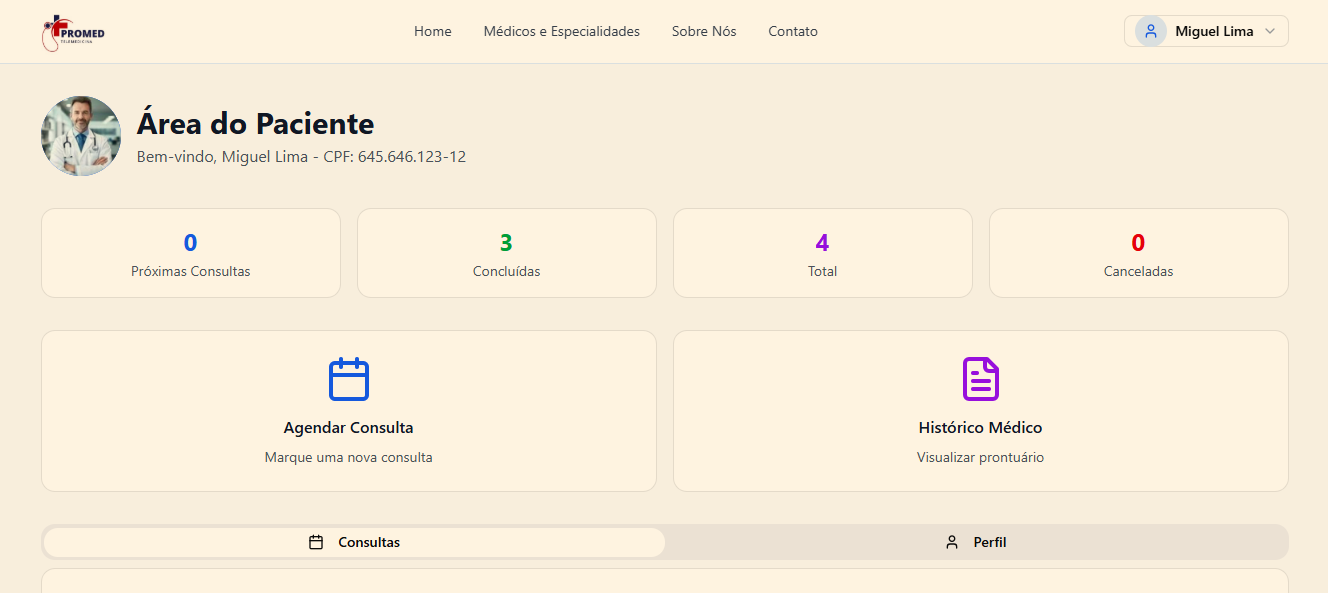
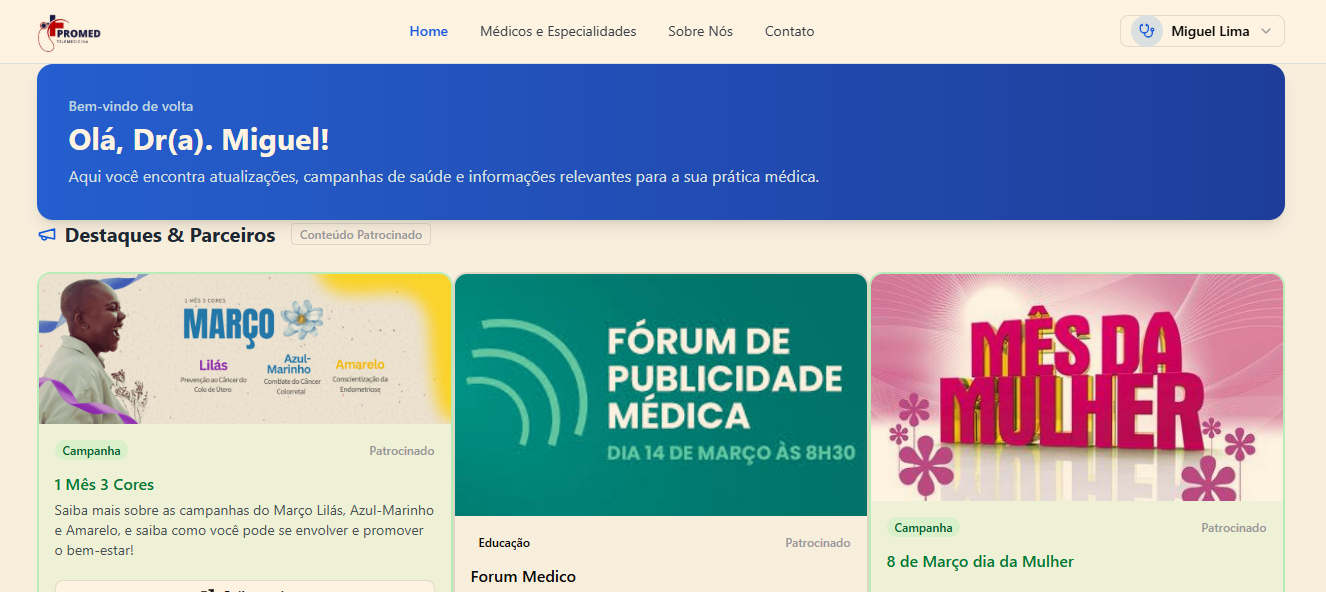
chore: confirma metadados dos projetos
- context/category confirmados para ATMParts, Denúncias, Tattoo e Agendamento
- perfil: 8 projetos para clientes, 4 sistemas próprios
- remove o print 06 do PreDoctor (exibia CPF); o 07 vira 06

diff --git a/src/data/projects.ts b/src/data/projects.ts
@@ -34,7 +34,6 @@ export const projects: Project[] = [
       'PreDoctor — painel administrativo',
       'PreDoctor — agendamento de consulta',
       'PreDoctor — área do médico',
-      'PreDoctor — área do paciente com resumo de consultas',
       'PreDoctor — home do médico com campanhas e parceiros',
     ]),
   },
@@ -167,7 +166,7 @@ export const projects: Project[] = [
     name: 'ATMParts',
     tagline: 'Site institucional e catálogo de produtos de automação',
     category: 'institucional',
-    context: 'cliente', // TODO: confirmar
+    context: 'cliente',
     featured: false,
     order: 7,
     problem:
@@ -186,8 +185,8 @@ export const projects: Project[] = [
     slug: 'denuncias',
     name: 'Sistema de Denúncias',
     tagline: 'Plataforma para moradores relatarem problemas do bairro e da cidade',
-    category: 'gestao', // TODO: confirmar
-    context: 'proprio', // TODO: confirmar
+    category: 'gestao',
+    context: 'proprio',
     featured: false,
     order: 8,
     problem:
@@ -205,8 +204,8 @@ export const projects: Project[] = [
     slug: 'tattoo-studio',
     name: 'Agendamento — Estúdio de Tattoo',
     tagline: 'Agendamento de horários com envio de referências de desenho',
-    category: 'institucional', // TODO: confirmar
-    context: 'cliente', // TODO: confirmar
+    category: 'gestao',
+    context: 'cliente',
     featured: false,
     order: 9,
     problem: 'O estúdio recebia pedidos de horário e referências de desenho de forma dispersa.',
@@ -243,8 +242,8 @@ export const projects: Project[] = [
     slug: 'agendamento-online',
     name: 'Sistema de Agendamento Online',
     tagline: 'Agendamento de serviços com escolha de horário disponível',
-    category: 'gestao', // TODO: confirmar
-    context: 'cliente', // TODO: confirmar
+    category: 'gestao',
+    context: 'cliente',
     featured: false,
     order: 11,
     problem: 'Agendar serviços por mensagem gerava conflitos de horário e retrabalho.',

diff --git a/src/data/profile.ts b/src/data/profile.ts
@@ -3,7 +3,7 @@ import type { Profile } from './types';
 export const profile: Profile = {
   stats: [
     { value: '4+', label: 'anos em desenvolvimento' },
-    { value: '3', label: 'projetos para clientes' },
+    { value: '8', label: 'projetos para clientes' },
     { value: '4', label: 'sistemas próprios em uso diário' },
   ],
   complementar: [
